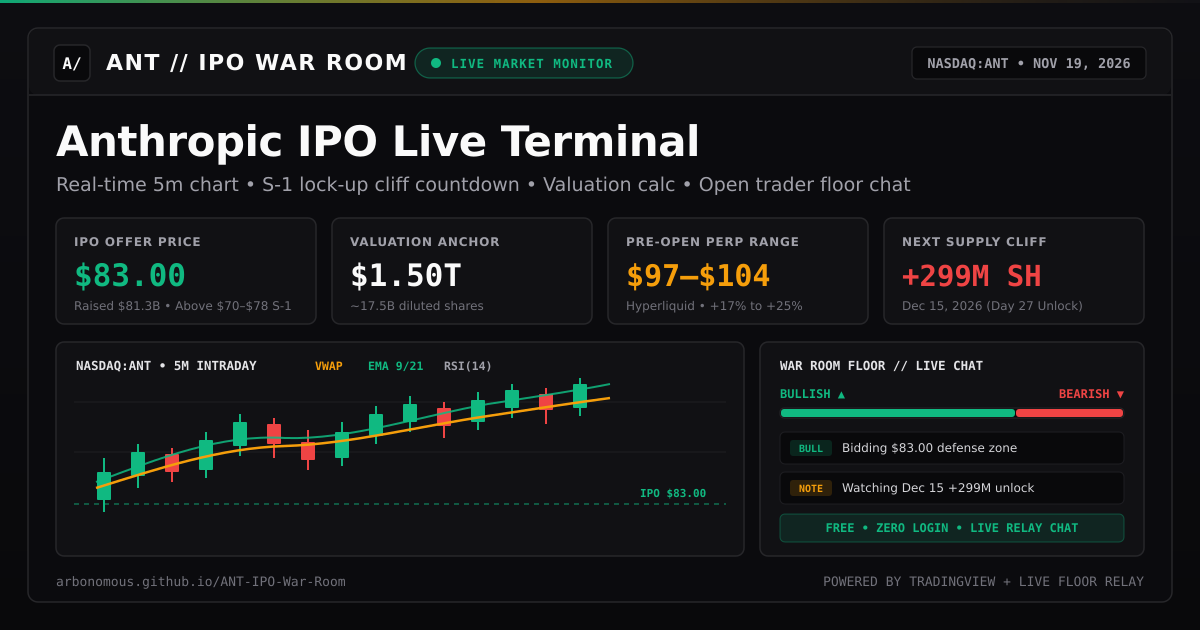
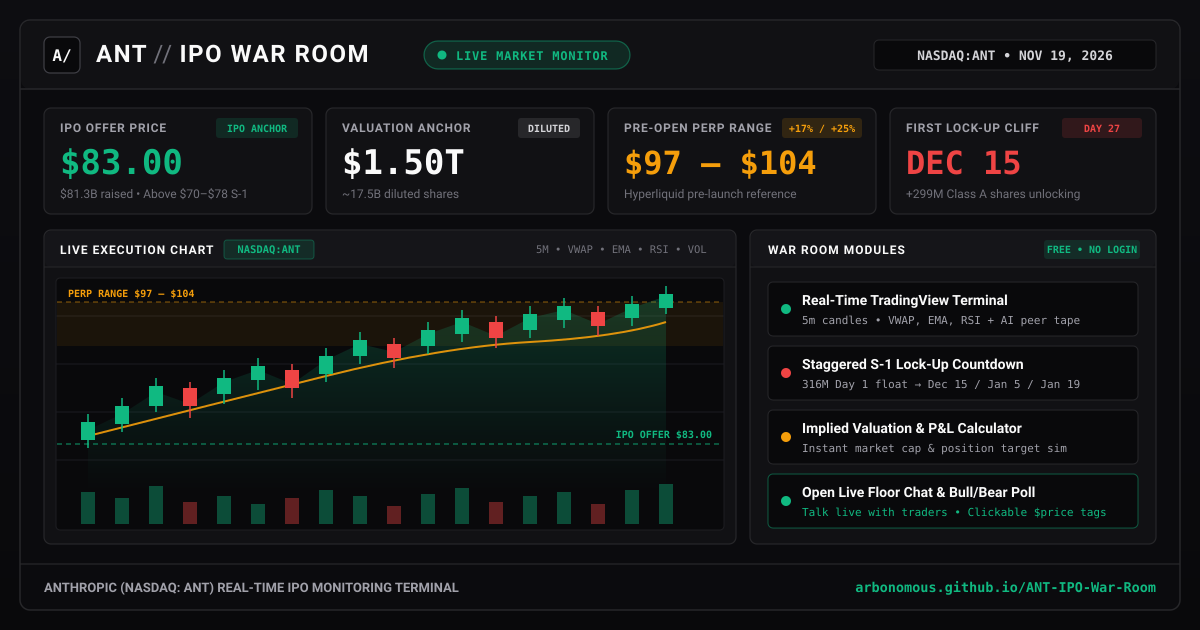
feat: add Open Graph and X summary_large_image social preview card

diff --git a/index.html b/index.html
@@ -7,53 +7,41 @@
     <title>ANT // IPO War Room — Anthropic (NASDAQ: ANT) Live Market Terminal</title>
     <meta
       name="description"
-      content="Real-time institutional terminal for Anthropic (NASDAQ: ANT): live 5m TradingView chart, S-1 staggered lock-up countdown, implied valuation & P&L calculator, Bull/Bear crowd poll, and open live trader chat."
+      content="Free real-time Anthropic (NASDAQ: ANT) IPO monitoring terminal: live TradingView 5m chart (VWAP, EMA, RSI), S-1 staggered lock-up countdown, implied market cap & P&L calculator, and open live trader chat."
     />
 
-    <!-- Open Graph / Social Preview Card -->
+    <!-- Open Graph / Social Preview -->
     <meta property="og:type" content="website" />
     <meta property="og:site_name" content="ANT // IPO War Room" />
     <meta property="og:url" content="https://arbonomous.github.io/ANT-IPO-War-Room/" />
-    <meta
-      property="og:title"
-      content="ANT // IPO War Room — Anthropic (NASDAQ: ANT) Live Terminal"
-    />
+    <meta property="og:title" content="ANT // IPO War Room — Anthropic (NASDAQ: ANT) Live Terminal" />
     <meta
       property="og:description"
-      content="Free real-time Anthropic IPO terminal: live 5m chart (VWAP/EMA/RSI), Dec 15 (+299M) lock-up countdown, $83 IPO valuation calculator, Bull/Bear sentiment poll & open trader floor chat."
+      content="Live 5m chart, S-1 lock-up cliff countdown (Dec 15 +299M), $83 IPO valuation & P&L calculator, and open real-time trader chat + Bull/Bear poll. Free, zero login."
     />
     <meta
       property="og:image"
       content="https://arbonomous.github.io/ANT-IPO-War-Room/og-card.png"
     />
-    <meta property="og:image:type" content="image/png" />
     <meta property="og:image:width" content="1200" />
     <meta property="og:image:height" content="630" />
     <meta
       property="og:image:alt"
-      content="ANT // IPO War Room dark-mode terminal showing $83.00 IPO offer price, $1.50T valuation anchor, $97-$104 perp range, Dec 15 +299M unlock cliff, live chart, and open trader chat."
+      content="ANT IPO War Room dark-mode institutional terminal showing Anthropic NASDAQ: ANT $83.00 IPO offer, $1.50T valuation anchor, $97-$104 pre-open perp range, Dec 15 lock-up cliff, live chart, and open trader chat."
     />
 
-    <!-- X / Twitter Card -->
+    <!-- X (Twitter) Large Summary Card -->
     <meta name="twitter:card" content="summary_large_image" />
-    <meta
-      name="twitter:title"
-      content="ANT // IPO War Room — Anthropic (NASDAQ: ANT) Live Terminal"
-    />
+    <meta name="twitter:title" content="ANT // IPO War Room — Anthropic (NASDAQ: ANT) Live Terminal" />
     <meta
       name="twitter:description"
-      content="Live 5m chart, Dec 15 (+299M) S-1 lock-up cliff countdown, implied valuation calc & open live trader floor chat. Free, zero login."
+      content="Live 5m chart, Dec 15 (+299M) S-1 lock-up countdown, $83 IPO valuation & P&L calc, and open live trader chat + Bull/Bear poll. Free, zero login."
     />
     <meta
       name="twitter:image"
       content="https://arbonomous.github.io/ANT-IPO-War-Room/og-card.png"
     />
-    <meta
-      name="twitter:image:alt"
-      content="ANT // IPO War Room institutional dark-mode financial terminal preview"
-    />
 
-    <link rel="canonical" href="https://arbonomous.github.io/ANT-IPO-War-Room/" />
     <link rel="icon" type="image/svg+xml" href="./favicon.svg" />
     <link rel="preconnect" href="https://fonts.googleapis.com" />
     <link rel="preconnect" href="https://fonts.gstatic.com" crossorigin />
